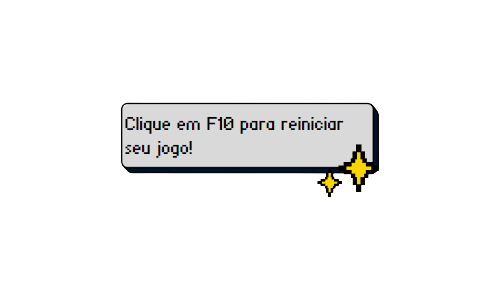
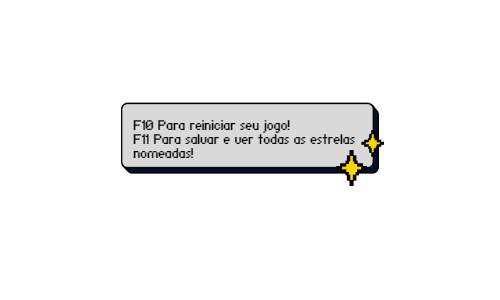
space maker com F11

Changed region(s): [[0.24, 0.39, 0.78, 0.66], [0.24, 0.33, 0.75, 0.36]]

diff --git a/testeUm.py b/testeUm.py
@@ -25,9 +25,10 @@ salvando = []
 
 
 # música, ícone, nome...
+dadosSalvos = False
 fundo = pygame.image.load("fundo.jpg")
 caixaTexto = pygame.image.load("f10.png")
-caixaSalvos = pygame.image.load("salvos.png")
+caixaSalvos = pygame.image.load("caixa salvos.png")
 pygame.mixer.music.load("musica.mp3")
 pygame.mixer.music.play(-1)
 icone = pygame.image.load("icone.png")
@@ -48,14 +49,31 @@ while running:
             if nome != "":
                 print(nome)
                 nomes.append(nome)
+            if nome == None:
+                nome = "descohecida"
+                print(nome)
+                nomes.append(nome)
         elif event.type == pygame.KEYUP:
             if event.key == pygame.K_F10:
                 cordenadas = []
                 nomes = []
                 linhas = []
                 pygame.display.update()
-                    
+            if event.key == pygame.K_F11:
+                dadosSalvos = True
                 
+    if dadosSalvos:
+        biblioDados = (nomes, cordenadas)
+        salvando.append(biblioDados)
+        for dados in salvando:
+            pygame.font.init()
+            tela.blit(caixaSalvos, (20, 70))
+            textoDados = fontepadrao.render(str(dados), 1, preto)
+            tela.blit(textoDados, (50, 110))
+            pygame.display.update()
+            time.sleep(3)
+        dadosSalvos = False
+        
     #para desenhar as estrelinhas e escrever os nomes
     for i in range(len(cordenadas)):
         pygame.draw.circle(tela, cor, cordenadas[i], raio)
